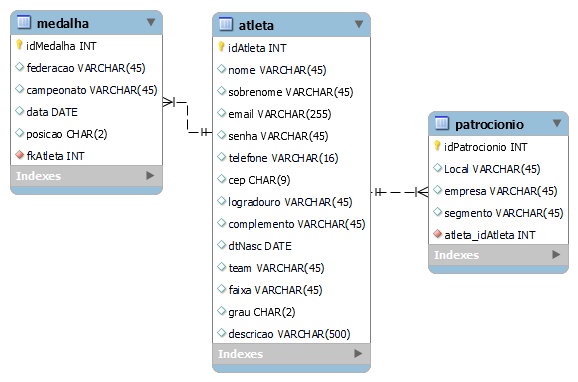
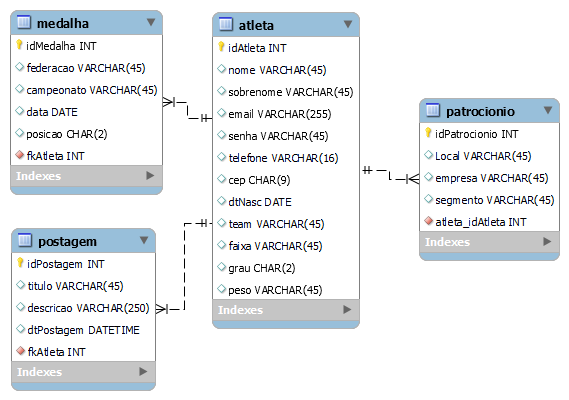
UP: Organizando BD scipt e Modelagem

diff --git a/aplicacao_web/site/public/termos.html b/aplicacao_web/site/public/termos.html
@@ -107,11 +107,17 @@
             
             Denúncia às autoridades competentes.
             Suspensão ou exclusão da conta do usuário responsável.
-            6. Dados para Análise
-            
-            Coletamos dados adicionais sobre a categoria do lutador e sua faixa de luta para realizar análises e gráficos. Ao utilizar nosso site, você está ciente e concorda que esses dados serão utilizados para esses fins analíticos.
             
         </p>
+
+        <h2>
+            6. Dados para Análise
+        </h2>
+            <p>
+
+                Coletamos dados adicionais sobre a categoria do lutador e sua faixa de luta para realizar análises e gráficos. Ao utilizar nosso site, você está ciente e concorda que esses dados serão utilizados para esses fins analíticos.
+            </p>
+            
 
         <h2>
             7. Privacidade e Segurança

diff --git a/aplicacao_web/site/public/atletas.html b/aplicacao_web/site/public/atletas.html
@@ -155,7 +155,7 @@
                         // Definição do conteúdo dos elementos
                         h4Element.textContent = `Federação: ${card.federacao}`;
                         pTeamElement.textContent = `Campeonato: ${card.campeonato}`;
-                        pDescricaoElement.textContent = `ano: ${card.ano}`;
+                        pDescricaoElement.textContent = `data: ${card.ano}`;
                         pContatoElement.textContent = `Lugar no podio: ${card.posicao}`;
 
 
